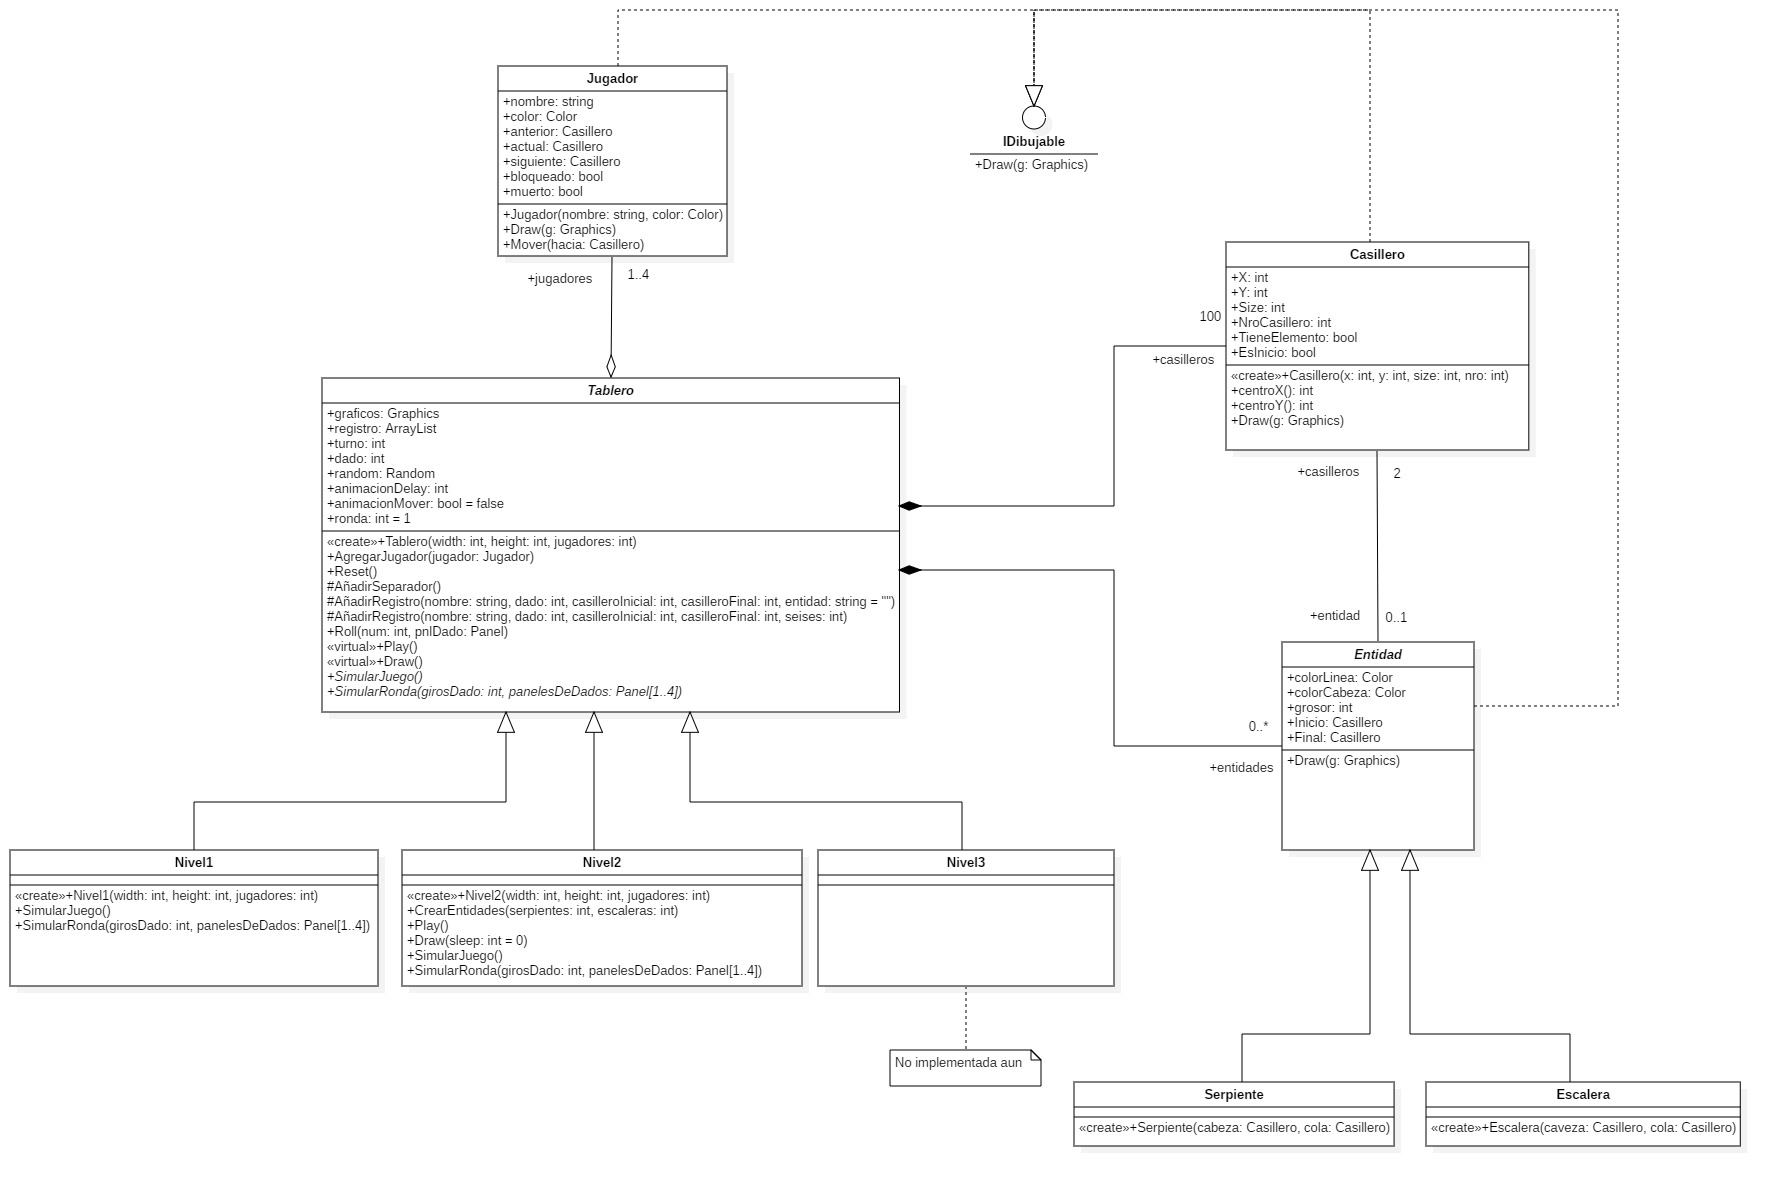
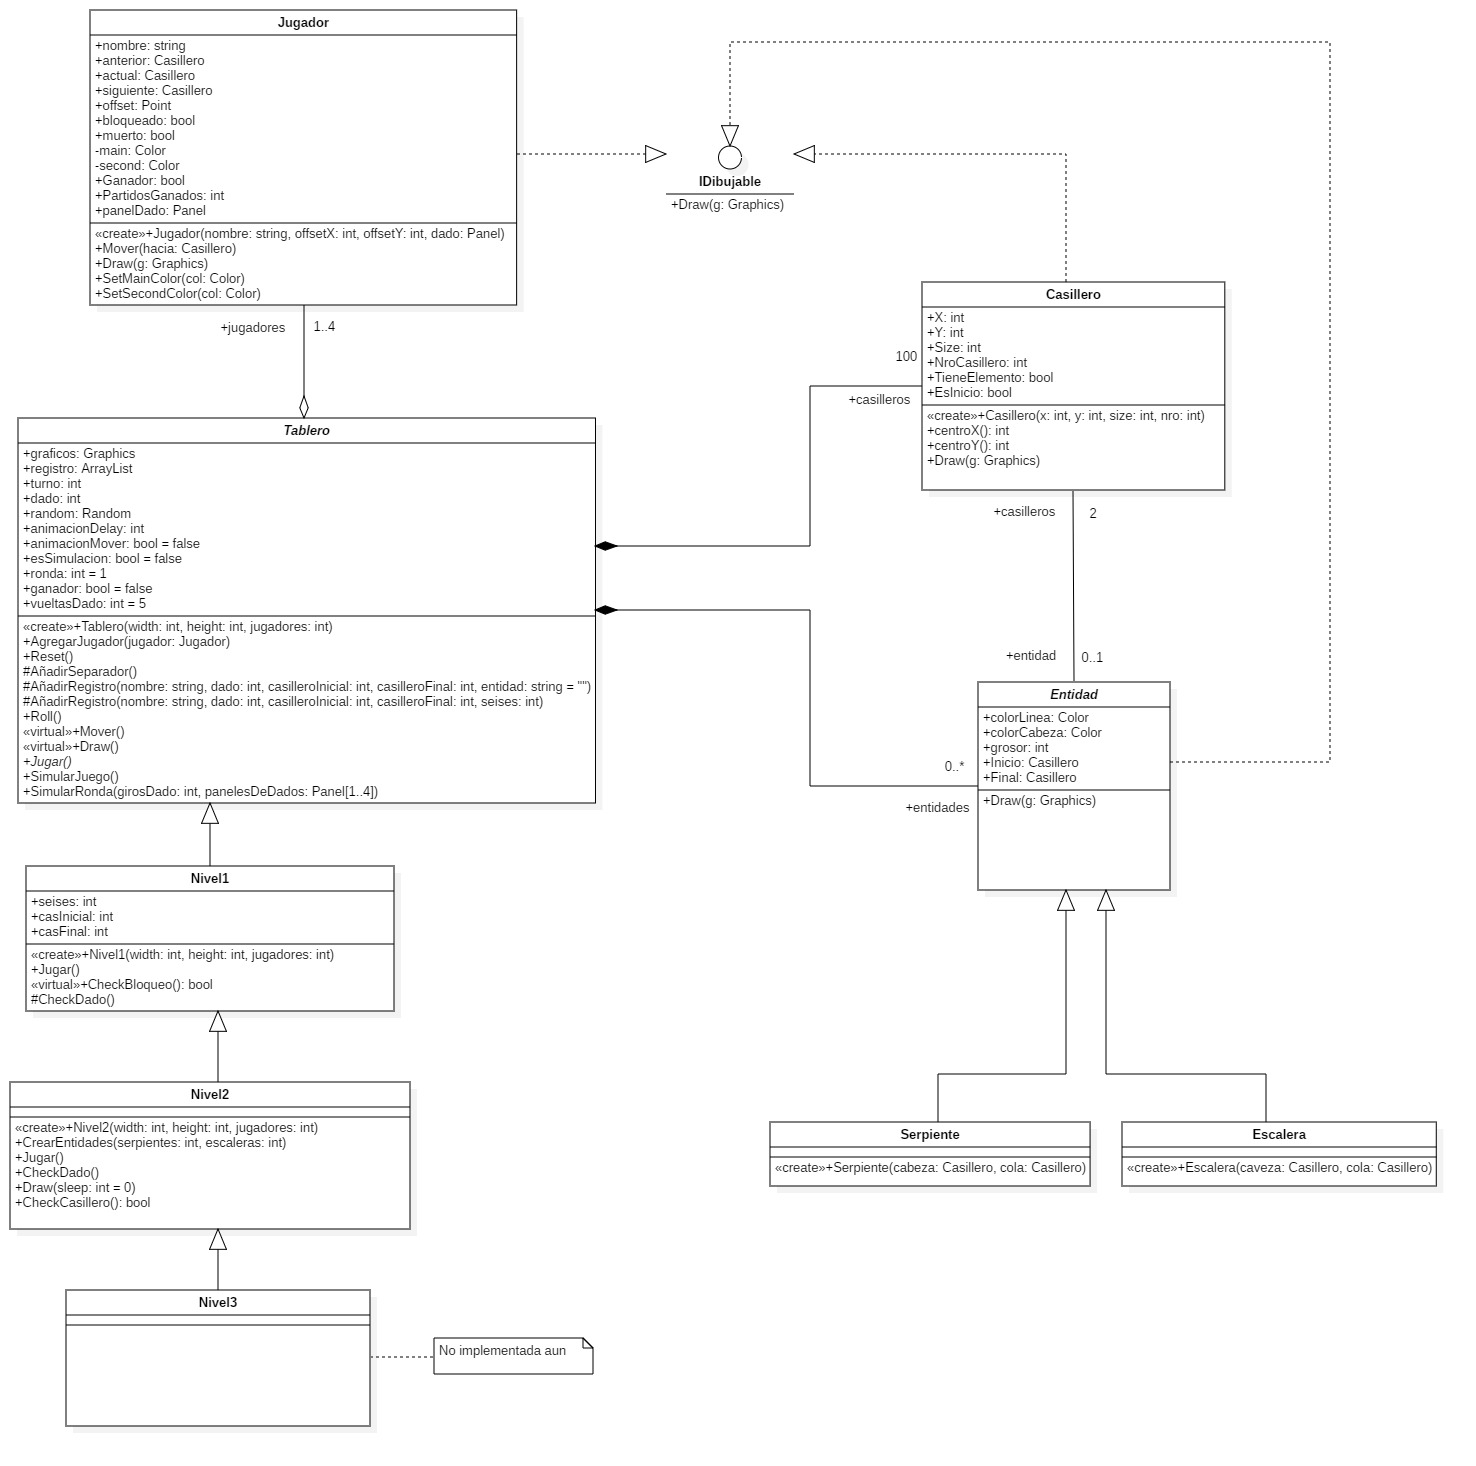
Mejora de metodos y actualizacion uml

diff --git a/EscalerasYSerpientes/Jugador.cs b/EscalerasYSerpientes/Jugador.cs
@@ -11,7 +11,6 @@ namespace EscalerasYSerpientes
     public class Jugador : IDibujable
     {
         public string nombre;
-        Color color;
         public Casillero anterior;
         public Casillero actual;
         public Casillero siguiente;
@@ -24,18 +23,9 @@ namespace EscalerasYSerpientes
         public bool muerto = false;
         public Panel panelDado;
 
-        public Jugador(string nombre, int offsetX, int offsetY)
-        {
-            this.nombre = nombre;
-            color = Color.Blue;
-            offset = new Point(offsetX, offsetY);
-            main = Color.CadetBlue;
-            second = Color.Blue;
-        }
         public Jugador(string nombre, int offsetX, int offsetY, Panel dado)
         {
             this.nombre = nombre;
-            color = Color.Blue;
             offset = new Point(offsetX, offsetY);
             main = Color.CadetBlue;
             second = Color.Blue;
@@ -54,7 +44,7 @@ namespace EscalerasYSerpientes
         {
             main = col;
         }
-        public void SetSecond(Color col)
+        public void SetSecondColor(Color col)
         {
             second = col;
         }

diff --git a/EscalerasYSerpientes/Tablero.cs b/EscalerasYSerpientes/Tablero.cs
@@ -15,8 +15,8 @@ namespace EscalerasYSerpientes
     {
         public Casillero [] casilleros = new Casillero[100];
         public ArrayList entidades = new ArrayList();
-        public Graphics graficos;
         public Jugador[] jugadores;
+        public Graphics graficos;
         public ArrayList registro = new ArrayList();
         public int turno;
         public int dado;
@@ -181,7 +181,6 @@ namespace EscalerasYSerpientes
             int casFinal = jugadores[turno].actual.NroCasillero;
             AñadirRegistro(jugador.nombre, dado, casInicial, casFinal);
         }
-        
         public virtual void Draw()
         {
             if (animacionMover) Thread.Sleep(animacionDelay);
@@ -197,6 +196,7 @@ namespace EscalerasYSerpientes
             }
             
         }
+        
         public abstract void Jugar();
 
         public void SimularJuego()

diff --git a/EscalerasYSerpientes/Form1.cs b/EscalerasYSerpientes/Form1.cs
@@ -50,7 +50,7 @@ namespace EscalerasYSerpientes
                 
                 jugadores[i] = new Jugador("COM "+i.ToString(), 10, 10 * i, dados[i]); ;
                 jugadores[i].SetMainColor(Color.Red);
-                jugadores[i].SetSecond(Color.DarkRed);
+                jugadores[i].SetSecondColor(Color.DarkRed);
             }
             Reset();
         }

diff --git a/EscalerasYSerpientes/Nivel1.cs b/EscalerasYSerpientes/Nivel1.cs
@@ -9,7 +9,7 @@ namespace EscalerasYSerpientes
 {
     public class Nivel1 : Tablero
     {
-        protected int seises = 0;
+        protected int seises;
         protected int casInicial;
         protected int casFinal;
         public Nivel1(int width, int height, int jugadores) : base(width, height, jugadores)
